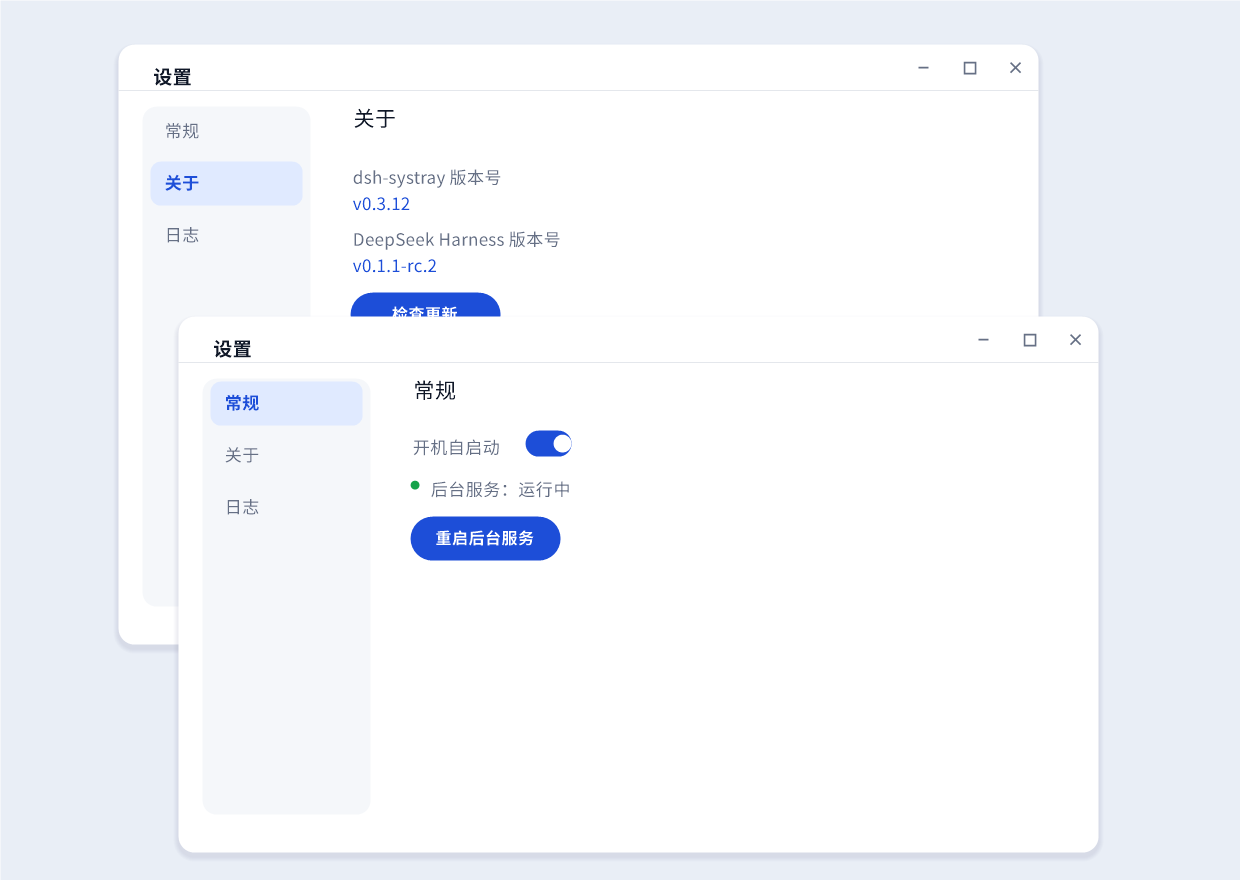
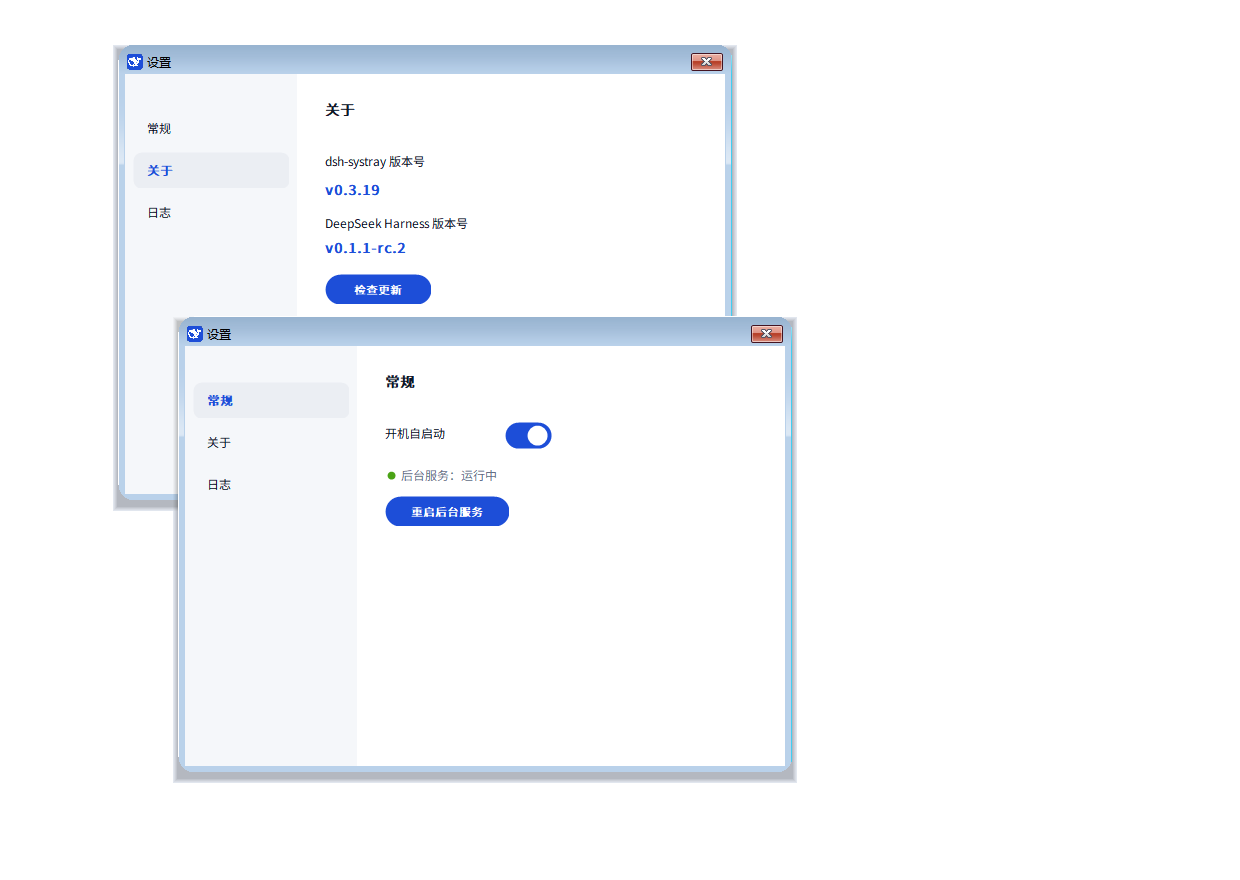
feat(screenshot): 改为真机截图流水线——screenshot_gen_test.go 打开真实设置窗口抓「常规/关于」两页叠合成 docs/screenshot.png；go generate -tags screenshotgen 一键刷新，随代码改动自动反映真实渲染

diff --git a/screenshot_gen_test.go b/screenshot_gen_test.go
@@ -1,0 +1,229 @@
+//go:build windows && screenshotgen
+
+package main
+
+import (
+	"image"
+	"image/color"
+	"image/draw"
+	"image/png"
+	"os"
+	"path/filepath"
+	"runtime"
+	"testing"
+	"time"
+	"unsafe"
+)
+
+// 真机截图生成器：打开真实设置窗口，抓取「常规」「关于」两页，叠合成 docs/screenshot.png。
+// 改动 Go UI 代码后运行（需 -tags screenshotgen 避免 go test ./... 误跑）：
+//   go generate ./...   （等价于 go test -tags screenshotgen -run RegenerateScreenshot -v）
+// 输出为当前代码的真实渲染，自动跟随界面调整。
+//
+//go:generate go test -tags screenshotgen -run RegenerateScreenshot -v
+
+type bmpInfoHeader struct {
+	biSize          uint32
+	biWidth         int32
+	biHeight        int32
+	biPlanes        uint16
+	biBitCount      uint16
+	biCompression   uint32
+	biSizeImage     uint32
+	biXPelsPerMeter int32
+	biYPelsPerMeter int32
+	biClrUsed       uint32
+	biClrImportant  uint32
+}
+
+var (
+	tpGetWindowRect      = modUser32.NewProc("GetWindowRect")
+	tpPrintWindow        = modUser32.NewProc("PrintWindow")
+	tpCreateCompatibleDC = modGdi32.NewProc("CreateCompatibleDC")
+	tpDeleteDC           = modGdi32.NewProc("DeleteDC")
+	tpCreateCompatibleBm = modGdi32.NewProc("CreateCompatibleBitmap")
+	tpGetDIBits          = modGdi32.NewProc("GetDIBits")
+)
+
+func capWin(hwnd uintptr) *image.RGBA {
+	var rc rect
+	tpGetWindowRect.Call(hwnd, uintptr(unsafe.Pointer(&rc)))
+	w := int(rc.right - rc.left)
+	h := int(rc.bottom - rc.top)
+	dc, _, _ := pGetDC.Call(0)
+	defer pReleaseDC.Call(0, dc)
+	mem, _, _ := tpCreateCompatibleDC.Call(dc)
+	defer tpDeleteDC.Call(mem)
+	bmp, _, _ := tpCreateCompatibleBm.Call(dc, uintptr(w), uintptr(h))
+	defer pDeleteObject.Call(bmp)
+	old, _, _ := pSelectObject.Call(mem, bmp)
+	tpPrintWindow.Call(hwnd, mem, 0)
+	pSelectObject.Call(mem, old)
+	bih := bmpInfoHeader{biSize: uint32(unsafe.Sizeof(bmpInfoHeader{})), biWidth: int32(w), biHeight: -int32(h), biPlanes: 1, biBitCount: 32}
+	buf := make([]byte, w*h*4)
+	tpGetDIBits.Call(mem, bmp, 0, uintptr(h), uintptr(unsafe.Pointer(&buf[0])), uintptr(unsafe.Pointer(&bih)), 0)
+	img := image.NewRGBA(image.Rect(0, 0, w, h))
+	for y := 0; y < h; y++ {
+		for x := 0; x < w; x++ {
+			i := (y*w + x) * 4
+			img.SetRGBA(x, y, color.RGBA{R: buf[i+2], G: buf[i+1], B: buf[i], A: 255})
+		}
+	}
+	// flag 0 已干净（无 DWM 黑框），仅裁 1px 去毛边
+	inset := 1
+	bot := 2
+	cropped := image.NewRGBA(image.Rect(0, 0, w-2*inset, h-inset-bot))
+	for y := 0; y < h-inset-bot; y++ {
+		for x := 0; x < w-2*inset; x++ {
+			cropped.SetRGBA(x, y, img.RGBAAt(x+inset, y+inset))
+		}
+	}
+	return cropped
+}
+
+// roundedMask 生成圆角 alpha 掩码（半径 r 的四角透明）。
+func roundedMask(w, h, r int) *image.Alpha {
+	m := image.NewAlpha(image.Rect(0, 0, w, h))
+	rr := r * r
+	for y := 0; y < h; y++ {
+		for x := 0; x < w; x++ {
+			a := uint8(255)
+			// 四个圆角之外透明
+			corner := false
+			if x < r && y < r {
+				if (x-r)*(x-r)+(y-r)*(y-r) > rr {
+					corner = true
+				}
+			}
+			if x >= w-r && y < r {
+				if (x-(w-r))*(x-(w-r))+(y-r)*(y-r) > rr {
+					corner = true
+				}
+			}
+			if x < r && y >= h-r {
+				if (x-r)*(x-r)+(y-(h-r))*(y-(h-r)) > rr {
+					corner = true
+				}
+			}
+			if x >= w-r && y >= h-r {
+				if (x-(w-r))*(x-(w-r))+(y-(h-r))*(y-(h-r)) > rr {
+					corner = true
+				}
+			}
+			if corner {
+				a = 0
+			}
+			m.SetAlpha(x, y, color.Alpha{A: a})
+		}
+	}
+	return m
+}
+
+func blend(dst *image.RGBA, src *image.RGBA, dx, dy int) {
+	var mask *image.Alpha
+	w, h := src.Bounds().Dx(), src.Bounds().Dy()
+	r := 16
+	mask = roundedMask(w, h, r)
+	dstRect := image.Rect(dx, dy, dx+w, dy+h)
+	draw.DrawMask(dst, dstRect, src, image.Point{}, mask, image.Point{}, draw.Over)
+}
+
+func drawShadow(dst *image.RGBA, x, y, w, h int) {
+	for i := 5; i >= 1; i-- {
+		ex := i * 2
+		// 用简单半透明叠加近似阴影（在窗口区域下方绘制偏移的黑色层）
+		ox, oy := x-ex/2, y-ex/2+6
+		sw, sh := w+ex, h+ex
+		for yy := oy; yy < oy+sh; yy++ {
+			for xx := ox; xx < ox+sw; xx++ {
+				if yy < 0 || yy >= dst.Bounds().Dy() || xx < 0 || xx >= dst.Bounds().Dx() {
+					continue
+				}
+				// 只叠加在窗口主体之外（背景）——简化：叠加一个偏移的阴影矩形
+				alpha := 8 + (5-i)*2
+				cur := dst.RGBAAt(xx, yy)
+				dst.SetRGBA(xx, yy, color.RGBA{R: uint8(int(cur.R)*(255-alpha)/255), G: uint8(int(cur.G)*(255-alpha)/255), B: uint8(int(cur.B)*(255-alpha)/255), A: 255})
+			}
+		}
+	}
+}
+
+func TestRegenerateScreenshot(t *testing.T) {
+	// 设置一个好看的版本号用于截图（否则为 dev / 未检测到）
+	const fakeVersion = "0.3.19"
+	appVersion = fakeVersion
+	fake := t.TempDir()
+	_ = os.MkdirAll(filepath.Join(fake, "node_modules", "@deepseek-ai", "dsh"), 0o755)
+	_ = os.WriteFile(filepath.Join(fake, "node_modules", "@deepseek-ai", "dsh", "package.json"), []byte(`{"version":"0.1.1-rc.2"}`), 0o644)
+	harnessDir = fake
+	settingsAutoOn = true
+	settingsSvcUp.Store(true)
+
+	done := make(chan uintptr, 1)
+	go func() {
+		runtime.LockOSThread()
+		defer runtime.UnlockOSThread()
+		hwnd := createSettingsWindow()
+		done <- hwnd
+		if hwnd == 0 {
+			return
+		}
+		for {
+			var m msg
+			ret, _, _ := pGetMessageW.Call(uintptr(unsafe.Pointer(&m)), 0, 0, 0)
+			if int32(ret) <= 0 {
+				break
+			}
+			pTranslateMessage.Call(uintptr(unsafe.Pointer(&m)))
+			pDispatchMessageW.Call(uintptr(unsafe.Pointer(&m)))
+		}
+	}()
+	hwnd := <-done
+	if hwnd == 0 {
+		t.Fatal("settings window not created")
+	}
+	time.Sleep(300 * time.Millisecond)
+
+	// 抓「关于」页
+	settingsCat = 1
+	settingsShowPane(hwnd)
+	time.Sleep(120 * time.Millisecond)
+	about := capWin(hwnd)
+
+	// 抓「常规」页（服务状态置为运行中）
+	settingsCat = 0
+	settingsShowPane(hwnd)
+	settingsSetServiceStatus(true)
+	time.Sleep(120 * time.Millisecond)
+	gen := capWin(hwnd)
+
+	pPostMessageW.Call(hwnd, wmClose, 0, 0)
+
+	// 叠合成 1240x880 层叠图
+	W, H := 1240, 880
+	out := image.NewRGBA(image.Rect(0, 0, W, H))
+	bg := color.RGBA{R: 233, G: 238, B: 246}
+	draw.Draw(out, out.Bounds(), &image.Uniform{C: bg}, image.Point{}, draw.Src)
+
+	aw, ah := about.Bounds().Dx(), about.Bounds().Dy()
+	gw, gh := gen.Bounds().Dx(), gen.Bounds().Dy()
+
+	drawShadow(out, 118, 44, aw, ah)
+	blend(out, about, 118, 44)
+	drawShadow(out, 178, 316, gw, gh)
+	blend(out, gen, 178, 316)
+
+	outPath := filepath.Join(".", "docs", "screenshot.png")
+	if err := os.MkdirAll(filepath.Dir(outPath), 0o755); err != nil {
+		t.Fatal(err)
+	}
+	f, err := os.Create(outPath)
+	if err != nil {
+		t.Fatal(err)
+	}
+	defer f.Close()
+	if err := png.Encode(f, out); err != nil {
+		t.Fatal(err)
+	}
+	t.Logf("regenerated %s", outPath)
+}
